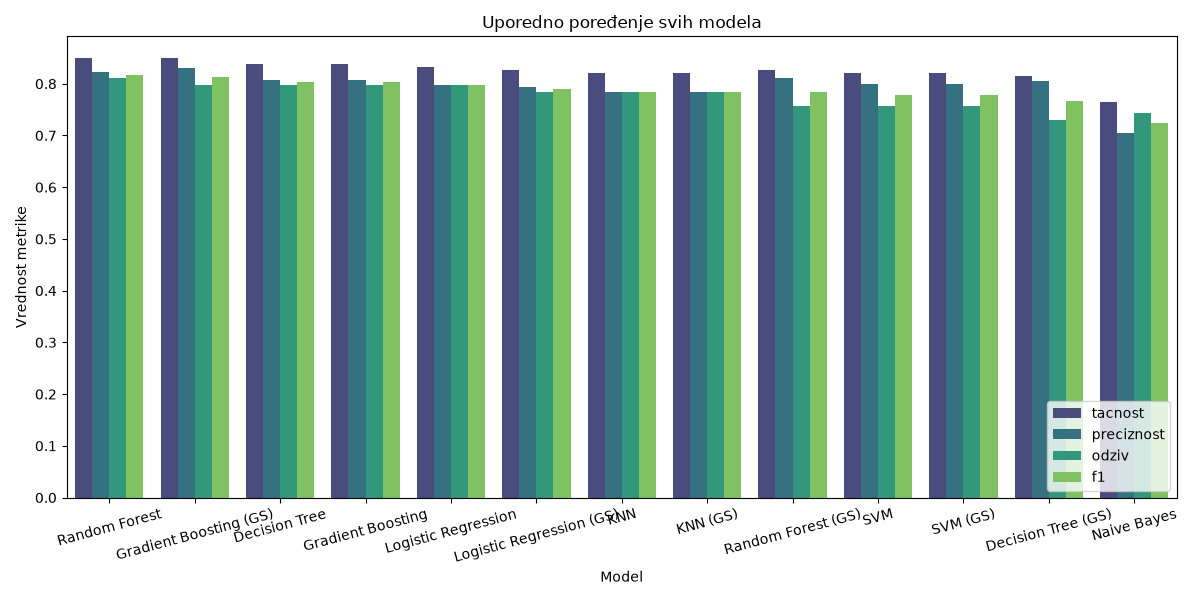
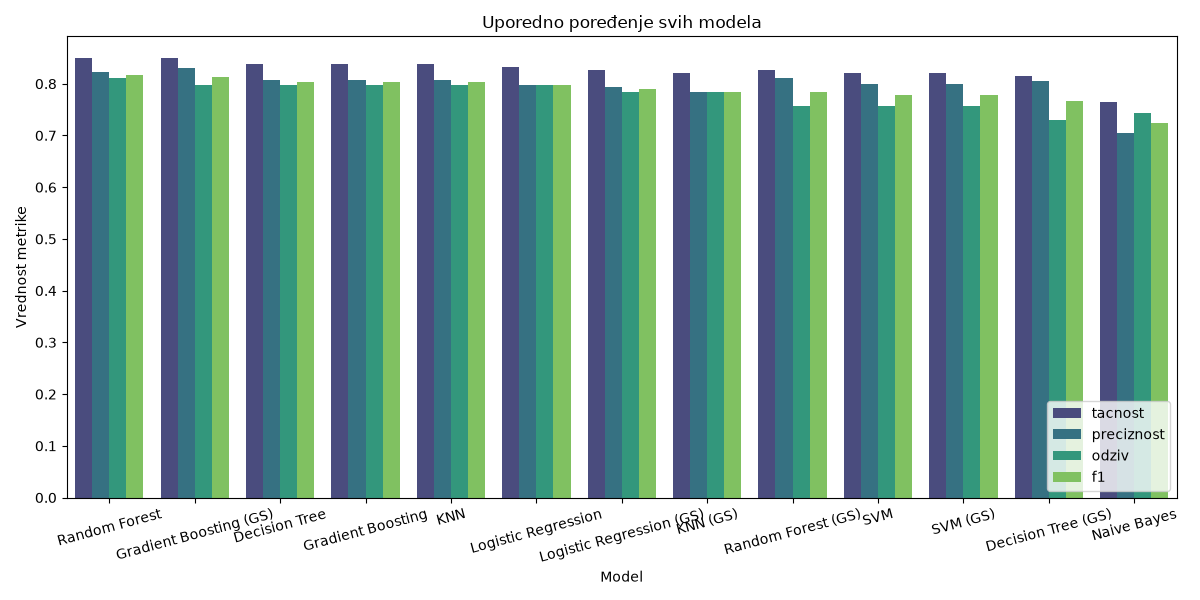
male izmene parametara

diff --git a/models/knn.py b/models/knn.py
@@ -22,7 +22,7 @@ def kreiraj_model():
     - metric: mera rastojanja (euklidsko)
     """
     model = KNeighborsClassifier(
-        n_neighbors=5,
+        n_neighbors= 7,
         metric="euclidean"
     )
     return model